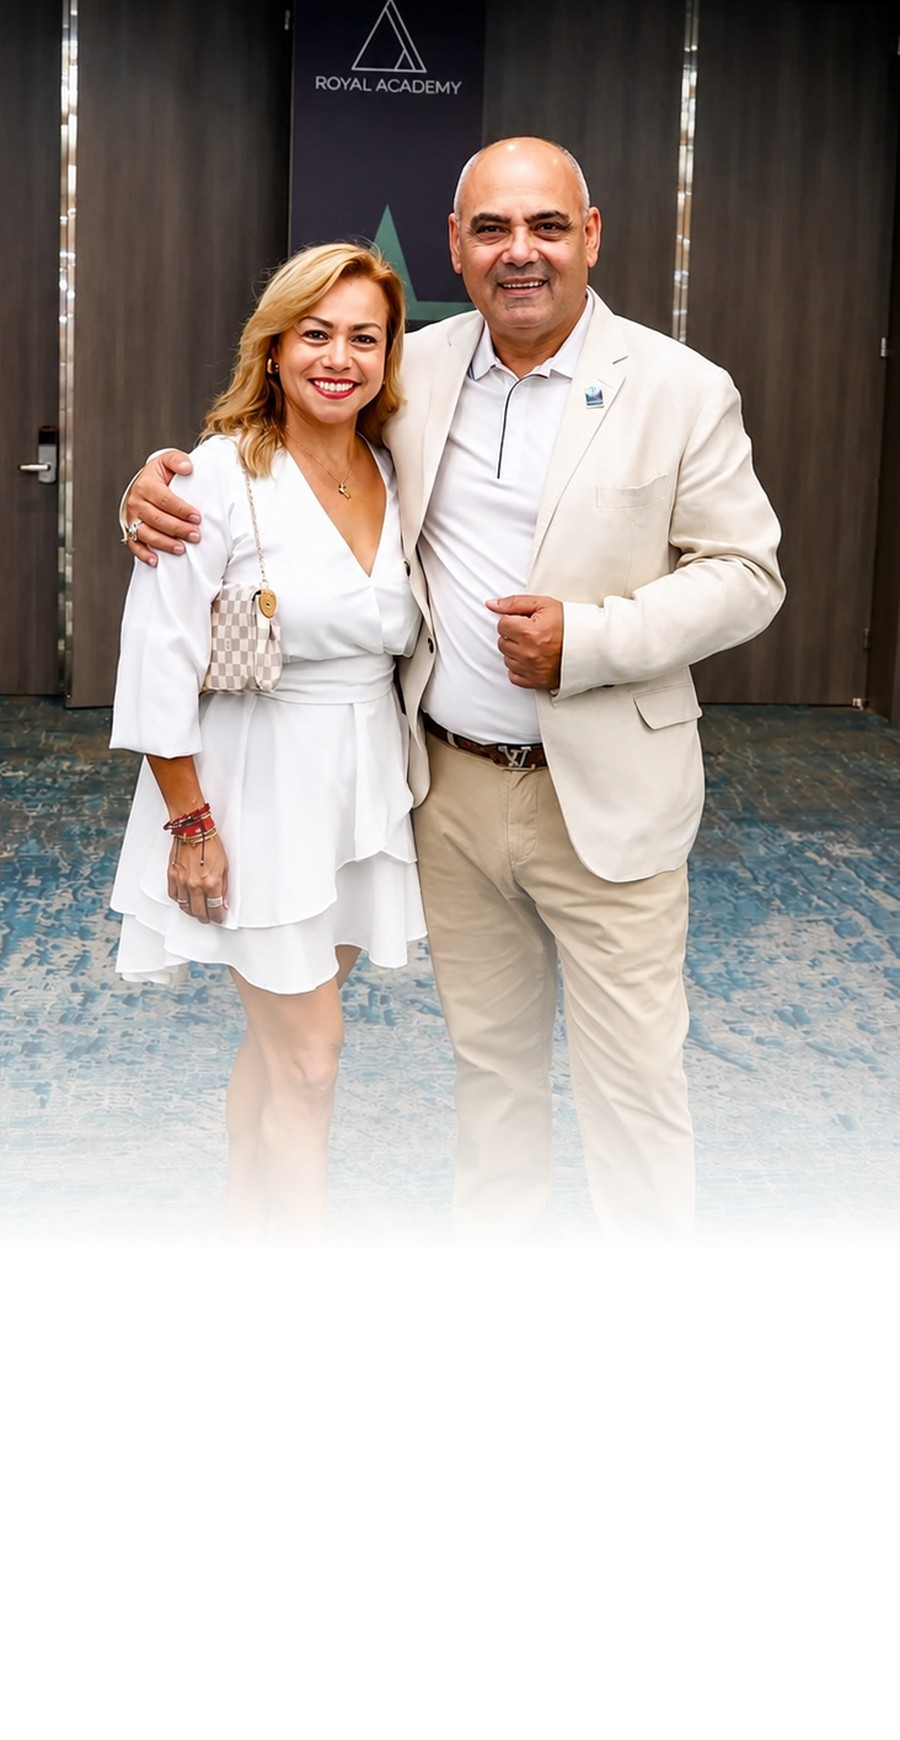
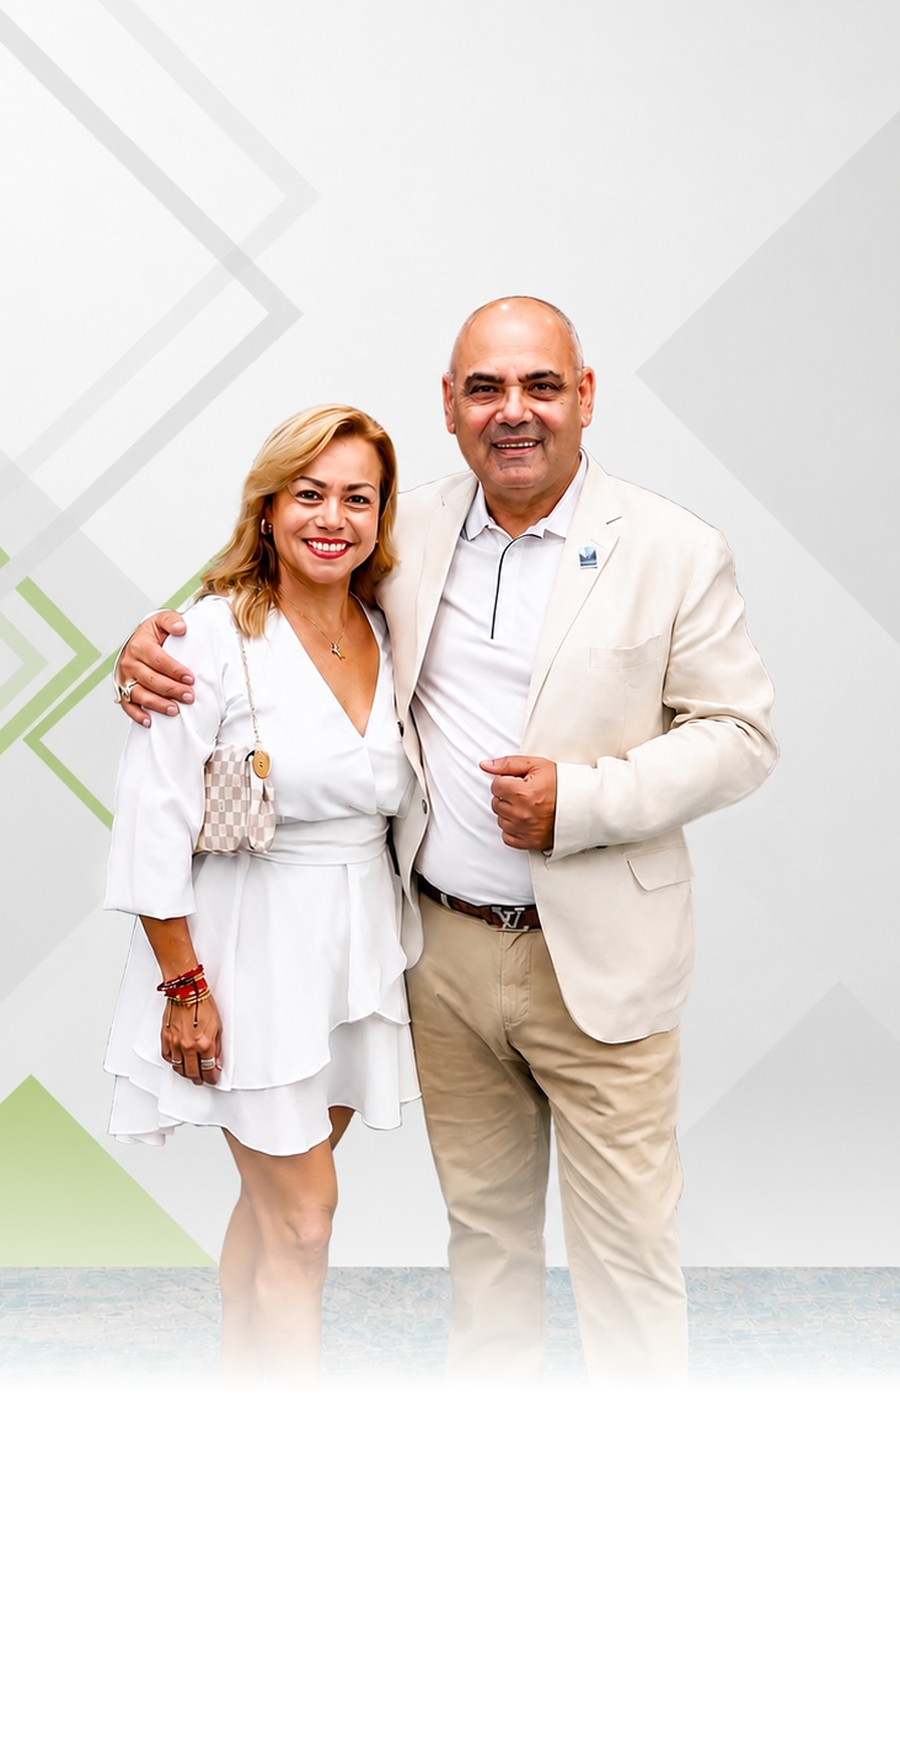
Add files via upload

diff --git a/index.html b/index.html
@@ -1587,6 +1587,13 @@
 </style>
 
 <style id="logo-nombre">
+  /* La foto nueva ya trae fondo claro: aligeramos el velo para que no la borre */
+  @media(min-width:768px){
+    .hero-veil{background:
+      linear-gradient(to right, rgba(255,255,255,.96) 0%, rgba(255,255,255,.86) 26%, rgba(255,255,255,.55) 42%, rgba(255,255,255,.18) 58%, rgba(255,255,255,0) 72%),
+      linear-gradient(to bottom, rgba(255,255,255,.35) 0%, rgba(255,255,255,0) 22%, rgba(255,255,255,0) 62%, rgba(255,255,255,.55) 88%, rgba(255,255,255,.95) 100%)!important}
+    .hero-glow{opacity:.45!important}
+  }
   /* El h1 sigue diciendo "Letty Trillo" para buscadores y lectores de pantalla;
      visualmente se sustituye por el logotipo. */
   .hero h1{
